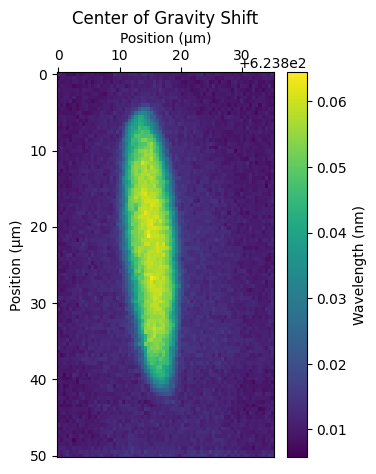
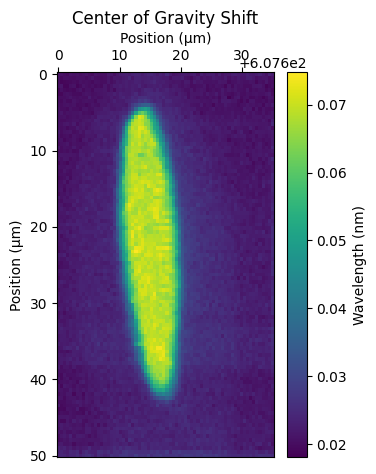
Wrong peak fix
Peak number algorithm was incorrect

diff --git a/Analyze2DScan.py b/Analyze2DScan.py
@@ -123,8 +123,8 @@ for Folder in os.listdir(Parent):
     PeakNumber = 0
     MaxPeak = 0
     for i in range(len(Peaks)):
-        if(ScanData[Y,X,i] > MaxPeak):
-            MaxPeak = ScanData[Y,X,i]
+        if(ScanData[Y,X,Peaks[i]] > MaxPeak):
+            MaxPeak = ScanData[Y,X,Peaks[i]]
             PeakNumber = i
 
     # Center of Gravity for Each Peak
